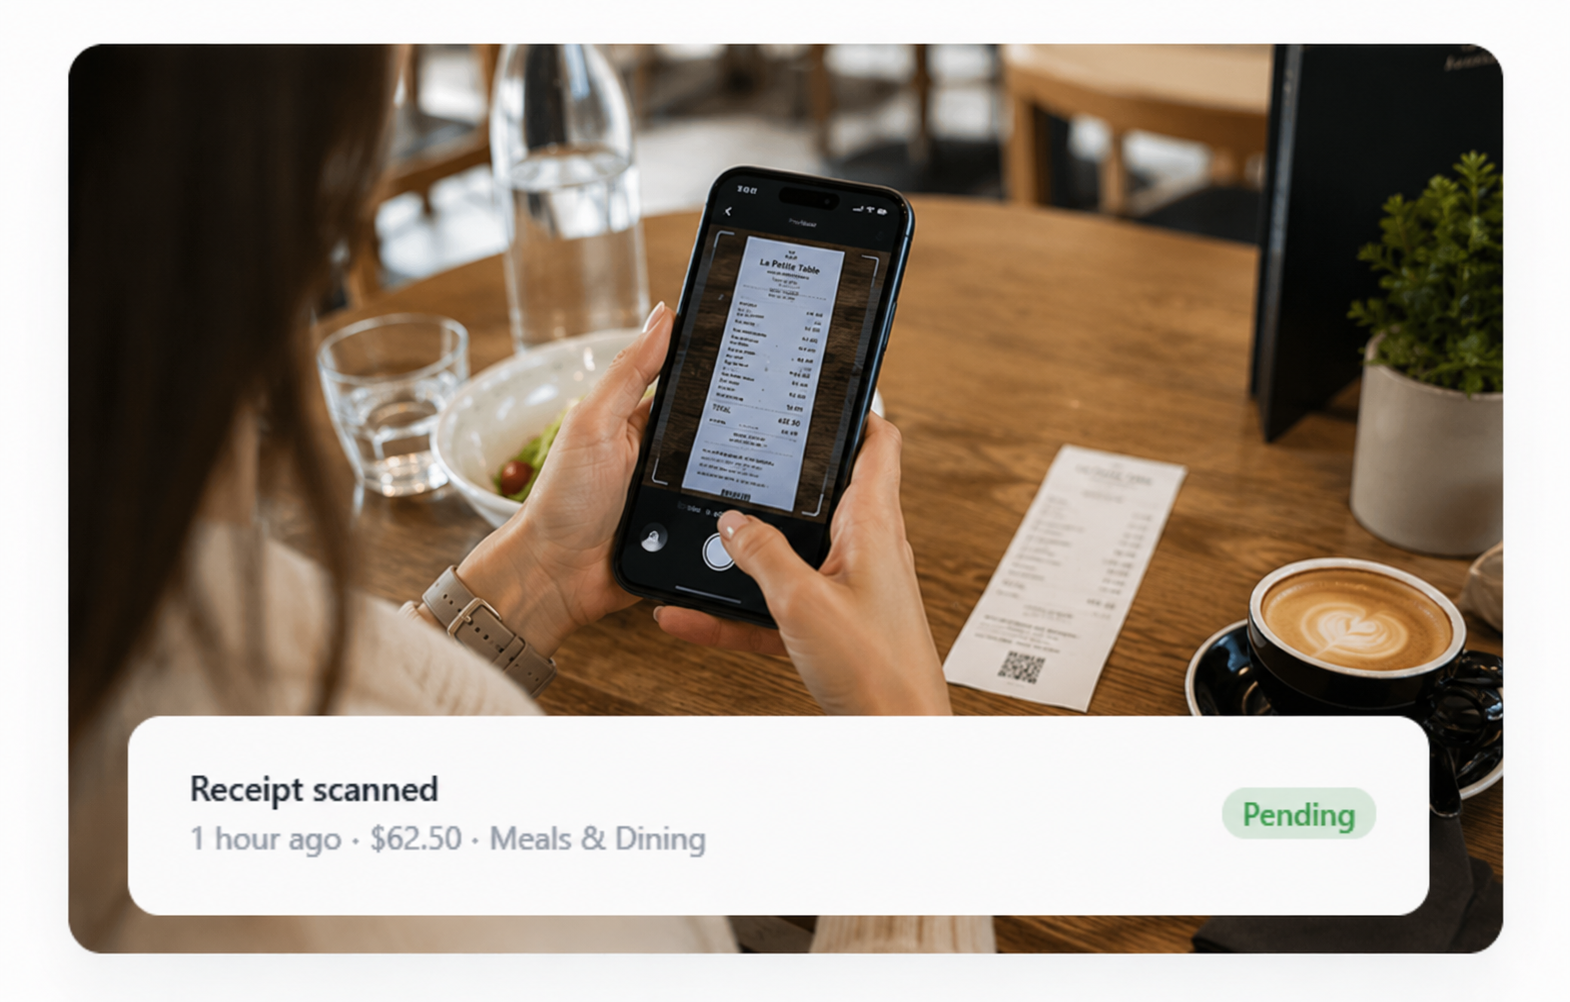
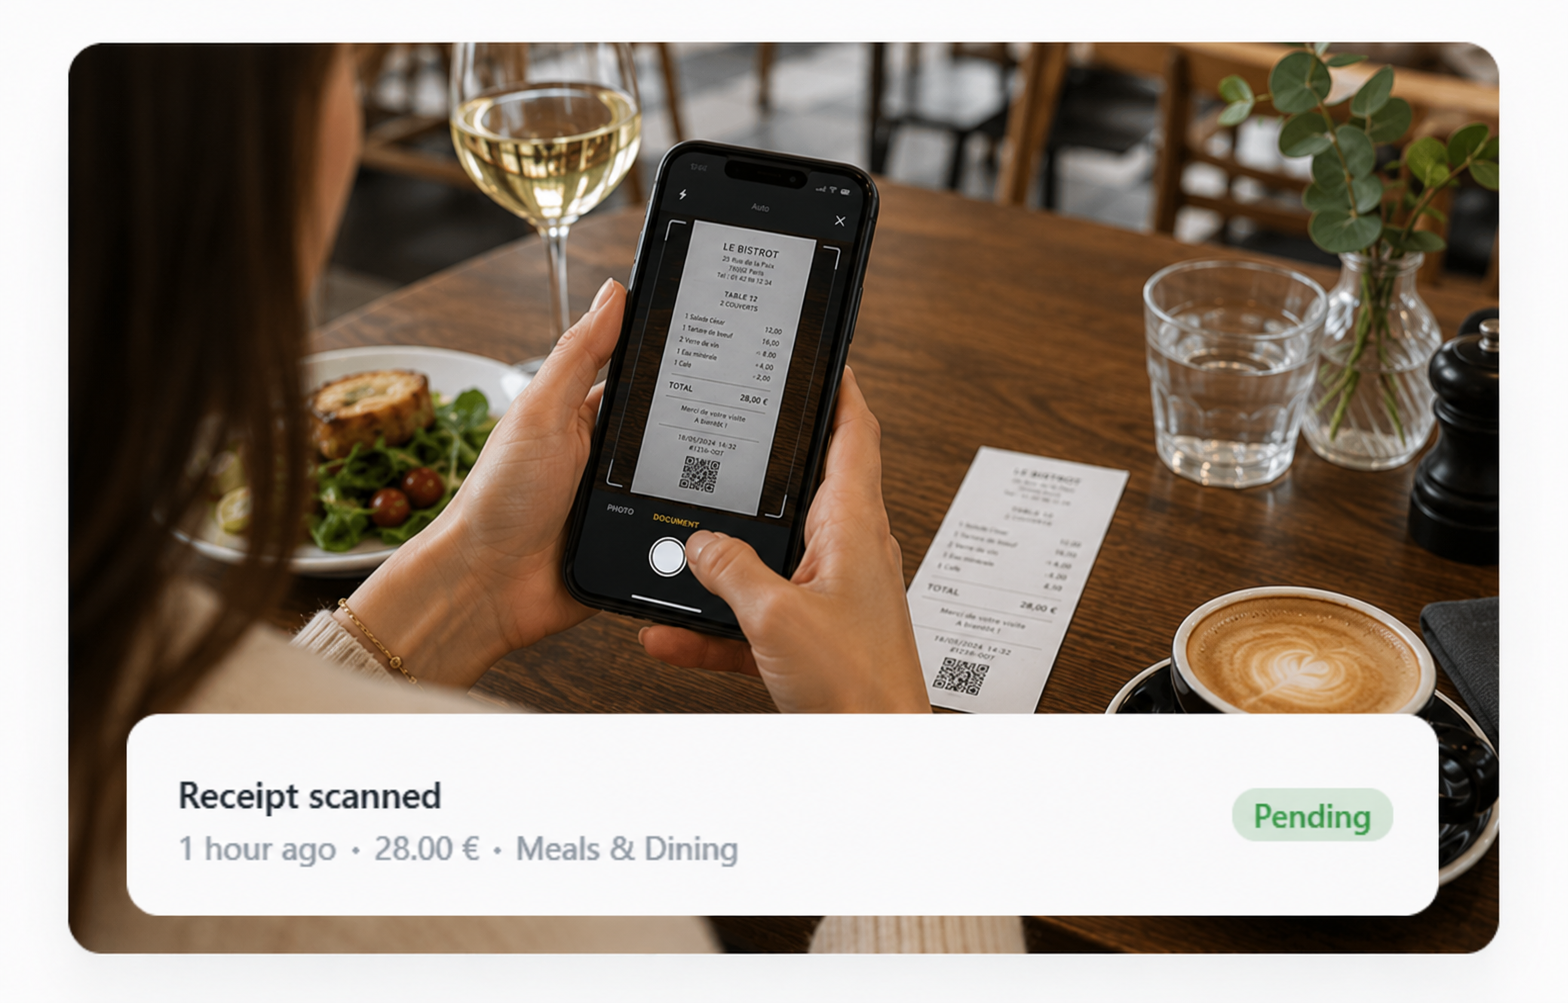
Use real photos for the mileage and approval landing-page steps
Fills the last two step visuals, so all three "How it works" steps now
use supplied photography rather than icon illustrations. Also picks up
a re-cut Capture photo whose receipt is denominated in euros, matching
the rest of the page.

diff --git a/apps/web/components/LandingPage.tsx b/apps/web/components/LandingPage.tsx
@@ -264,12 +264,16 @@ const STEPS: Step[] = [
     icon: PinIcon,
     title: "Log mileage",
     body: "Type a distance or drop in a start and end address and let us calculate it. Every trip's rate is locked in the moment it's logged, so nothing recalculates behind your back later.",
+    // Filename typo ("milieage") is the asset as supplied -- kept verbatim so
+    // the path matches what's actually in public/.
+    photo: "/milieage-photo.png",
   },
   {
     n: "03",
     icon: CheckCircleIcon,
     title: "Approve & reimburse",
     body: "Whoever you've given approval authority to sees a queue of what's pending, approves or rejects it, and the amount owed updates automatically — for receipts and mileage alike.",
+    photo: "/approved-photo.png",
   },
 ];
 
